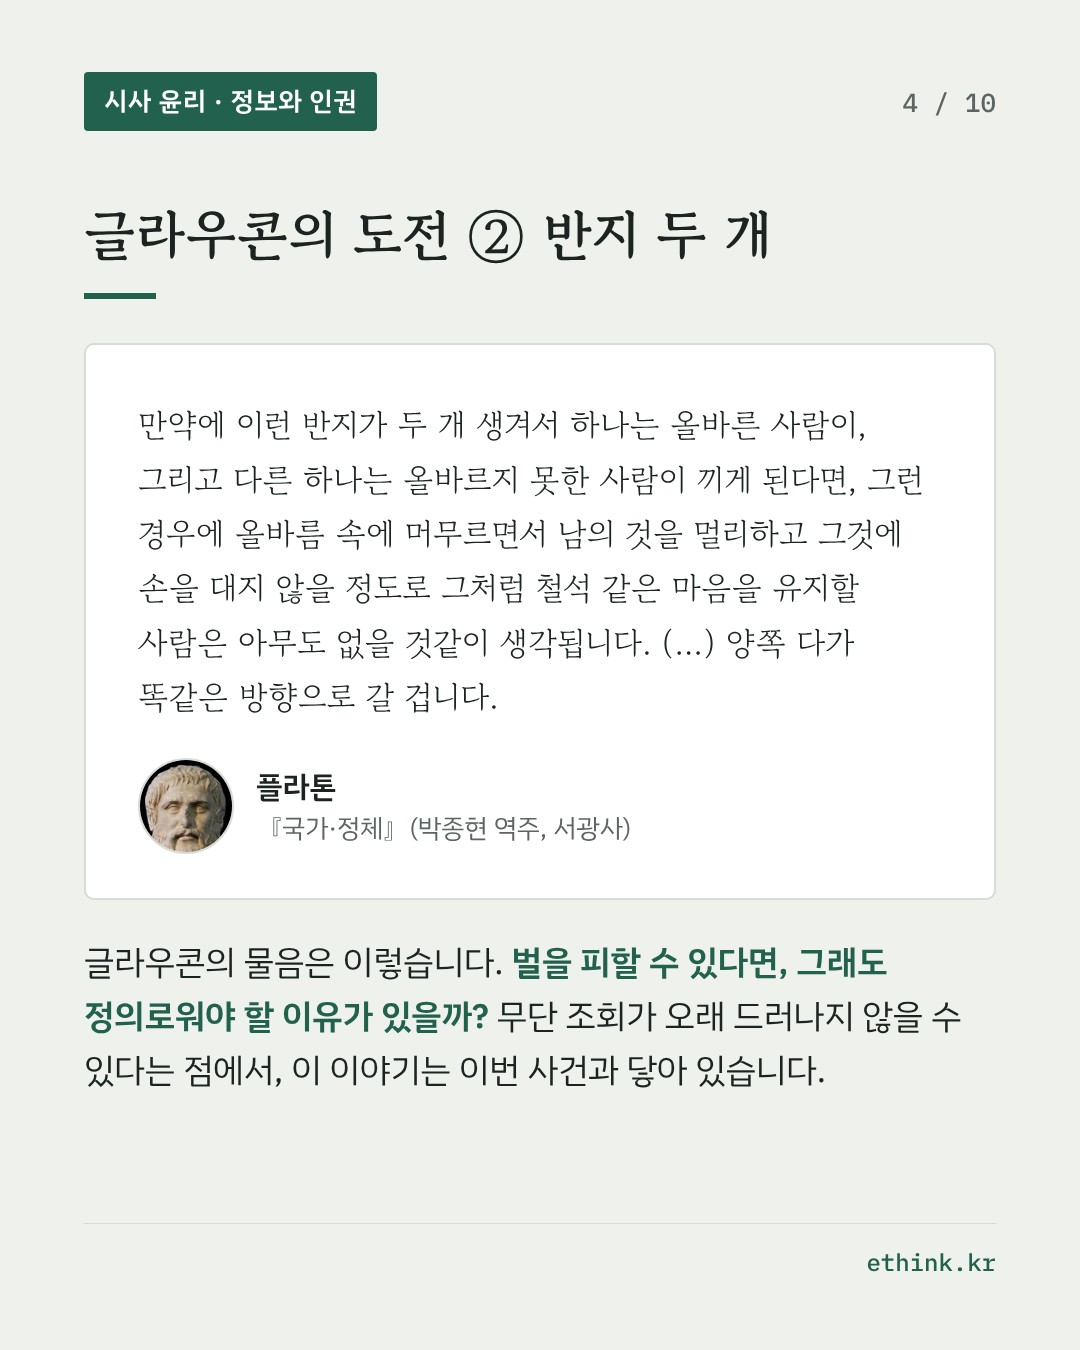
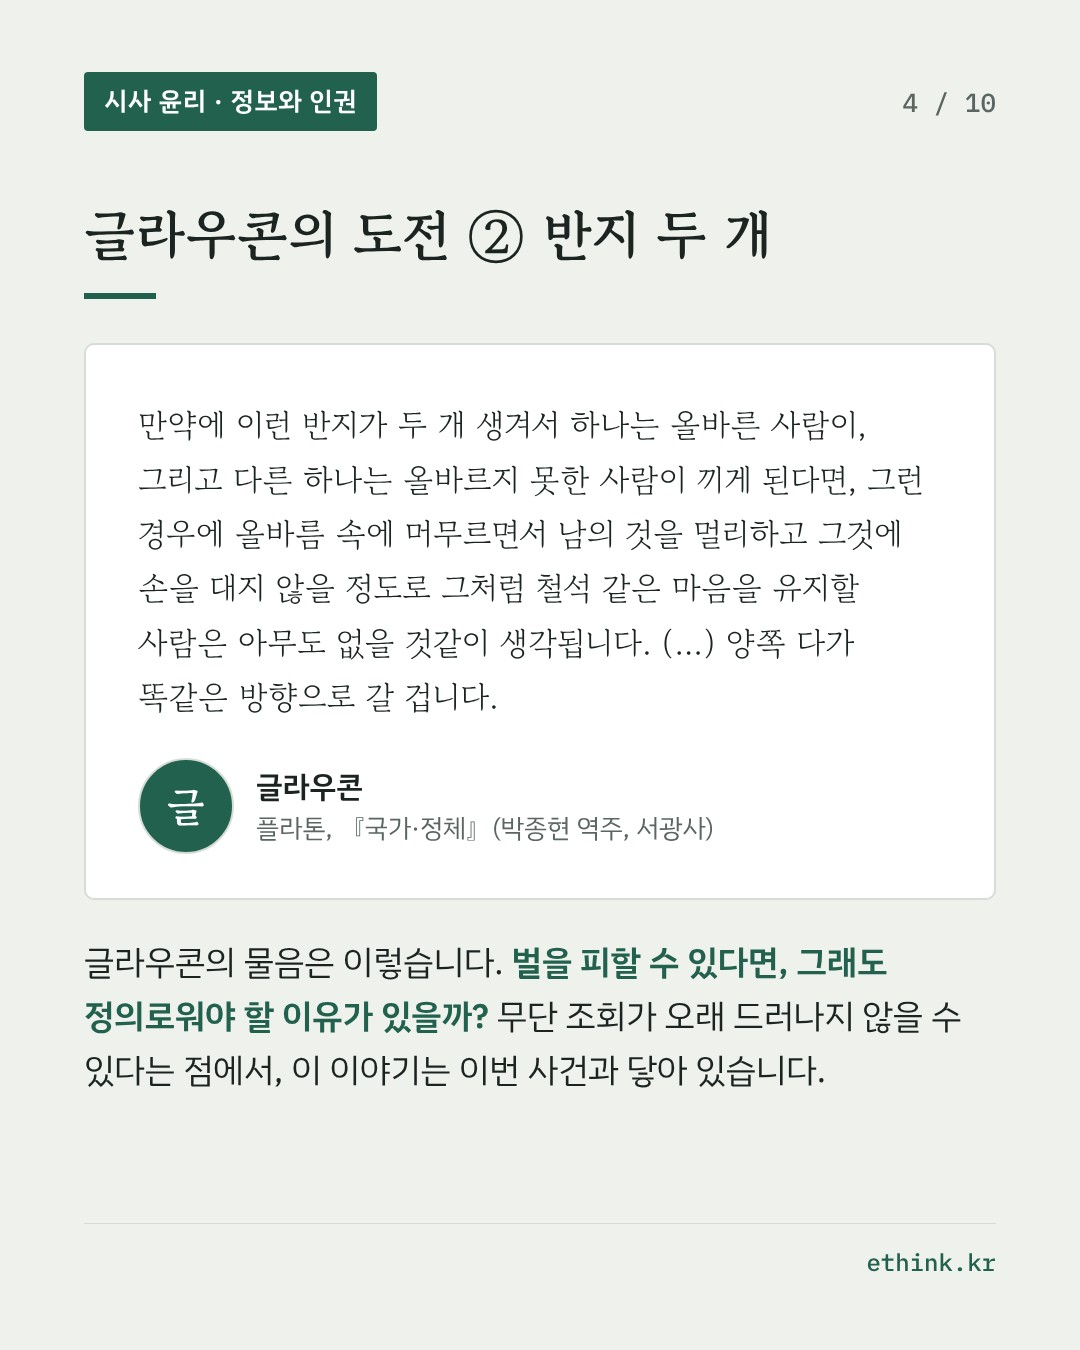
인용문 화자 표기: 소크라테스·글라우콘 얼굴과 이름, 출처는 플라톤 『국가·정체』로 분리(웹·카드), 지침 반영
Claude-Session: https://claude.ai/code/session_015bQvLW38M9G43q7XUxVD63

Changed region(s): [[0.2444, 0.56, 0.6722, 0.6222], [0.1222, 0.56, 0.2139, 0.6533]]

diff --git a/_tools/WRITING_GUIDE.md b/_tools/WRITING_GUIDE.md
@@ -34,6 +34,7 @@
 
 ## 4. 사상가 원문
 - 사상가가 나오면 원문을 함께 싣는다: `<figure class="src"><blockquote><p>원문</p></blockquote><figcaption>사상가, 『책』(옮긴이 옮김, 출판사) · 교과서 쪽수</figcaption></figure>`. 두 입장 비교는 `<div class="vs">` 안에 figure 두 개, 각 figure에 `<p class="vs-head">입장 · 사상가</p>`.
+- **인용문의 얼굴과 이름은 그 말을 한 사람**이다. 플라톤의 대화편에서 소크라테스나 글라우콘이 한 말이면 figcaption을 `소크라테스 · 플라톤, 『국가·정체』(박종현 역주, 서광사)`처럼 쓰고(앞 이름이 얼굴·이름이 되고 뒤가 출처), 카드 뉴스는 `who: 소크라테스`, `source: 플라톤, 『국가·정체』(…)`로 쓴다. 저자가 직접 한 말이면 이전처럼 저자 이름으로 시작한다. 소크라테스는 초상이 있고, 글라우콘처럼 초상이 없는 화자는 머리글자 원으로 둔다(faces.yml).
 - 원문은 반드시 실제 텍스트에서 가져온다: 재형 님 옵시디언 볼트 `Vault/_library/`(책 OCR 원문, 읽기 전용)와 `Vault/textbook/`, 또는 확인 가능한 공개 원문. 기억으로 쓰거나 다듬어 만든 문장을 원문처럼 싣지 않는다. 찾지 못하면 그 자리에 `[원문 확인 필요: 사상가, 책, 찾을 대목]`을 남기고 보고한다.
 - 교과서 수록 원문이면 교과서와 사상가 책을 모두 출처로 적는다. 교과서는 『인문학과 윤리』(길벗) 80쪽처럼 (「수록」은 쓰지 않는다) 책 이름과 **쪽수**만 적고, 단원 이름이나 코너 이름(「사상으로 보는 윤리문제」, 「나의 인문학 노트」 등)은 적지 않는다. 쪽수는 Dropbox/AI 작업실/교과서 pdf로 콘텐츠 제작/의 교과서 PDF(한쪽보기)에서 pdftotext로 문장을 찾아 그 쪽에 인쇄된 번호로 확인한다. 단행본 『윤리 사상가로 읽는 통합사회』도 같은 방식으로 쪽수만 적는다(PDF: Dropbox/_드롭 창고/윤리 사상가로 읽는 통합사회 단행본 전체(표지포함).pdf, 두 쪽 펼침이라 인용문이 있는 쪽의 번호를 쓴다). 교과서가 아니면 사상가의 어느 책인지 밝힌다.
 - 원문을 찾는 순서: ① 볼트 `Vault/_library/`(재형 님 도서관 라이브러리)와 기출 문제 원문 자료집 → ② 실제 한국어 번역서에 실린 문장 → ③ 원어 원문을 검색해 직접 번역(번역했음을 출처에 밝힌다).

diff --git a/_items/2026-10-24/1.md b/_items/2026-10-24/1.md
@@ -52,7 +52,7 @@ og_image: /assets/og/2026-10-24-1.jpg
 <blockquote>
 <p>만약에 이런 반지가 두 개 생겨서 하나는 올바른 사람이, 그리고 다른 하나는 올바르지 못한 사람이 끼게 된다면, 그런 경우에 올바름 속에 머무르면서 남의 것을 멀리하고 그것에 손을 대지 않을 정도로 그처럼 철석 같은 마음을 유지할 사람은 아무도 없을 것같이 생각됩니다. (…) 양쪽 다가 똑같은 방향으로 갈 겁니다.</p>
 </blockquote>
-<figcaption>플라톤, 『국가·정체』(박종현 역주, 서광사)</figcaption>
+<figcaption>글라우콘 · 플라톤, 『국가·정체』(박종현 역주, 서광사)</figcaption>
 </figure>
 
 이 반론은 이렇게 묻습니다. 벌과 비난을 피할 수 있다면, 그래도 정의롭게 살아야 할 이유가 있을까요? 공단의 조회 기록은 남기 때문에 직원이 정말 투명 인간이 되는 것은 아닙니다. 다만 무단 조회를 알아채는 데 길게는 1,135일이 걸린 적이 있다는 것은, 잘못이 오랫동안 드러나지 않을 수 있다는 뜻입니다. 이 점에서 반지 이야기를 이번 사건과 이어서 생각해 볼 수 있습니다.
@@ -63,7 +63,7 @@ og_image: /assets/og/2026-10-24-1.jpg
 <blockquote>
 <p>우리는 '올바름'이 그 자체로 혼 자체를 위해서 최선의 것임을 알게 되었으며, 혼으로서는, 자기가 '기게스의 반지'를 가졌건 갖지 않았건 간에, 그리고 그런 반지에 더하여 '보이지 않게 하는 (하데스의) 모자'를 가졌건 갖지 않았건 간에, 올바른 것들을 행하여야만 한다는 것도 알게 되지 않았는가?</p>
 </blockquote>
-<figcaption>플라톤, 『국가·정체』(박종현 역주, 서광사)</figcaption>
+<figcaption>소크라테스 · 플라톤, 『국가·정체』(박종현 역주, 서광사)</figcaption>
 </figure>
 
 여기서 '혼'은 영혼입니다. 반지가 있든 없든, 남에게 보이든 보이지 않든 올바르게 행동해야 한다는 말입니다. 이 생각을 이번 사건에 적용하면, '무단 조회를 어떻게 잡아낼까'와 함께 '남의 사생활을 존중하는 사람으로 일하려면 무엇이 필요할까'도 물을 수 있습니다.
